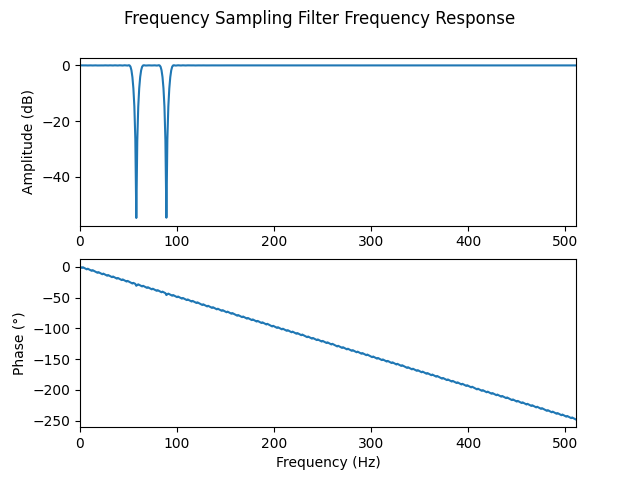
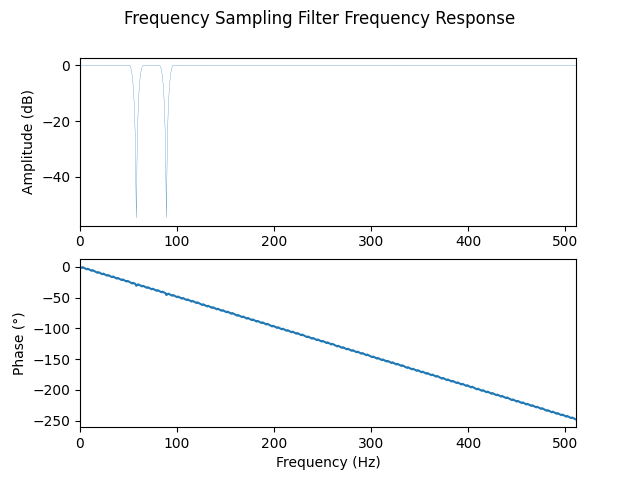
...

Changed region(s): [[0.125, 0.125, 0.9062, 0.4375]]

diff --git a/main.py b/main.py
@@ -126,7 +126,8 @@ def calculateGainFactor(numerator, denominator, passband_freq, sampling_freq):
     # Calculate gain factor. At unity gain: gain_factor * numerator_sum/denominator_sum = 1
     gain_factor = denominator_sum/numerator_sum
 
-    return gain_factor
+    #return gain_factor
+    return 1
 
 
 
@@ -282,14 +283,14 @@ def createClean(filename, directory=False):
     for reading and writing if it is a file.
     Deletes a previously created file if it exists, so that a new file can be written cleanly"""
 
-    # Remove file
+    # Remove old file
     if os.path.exists(filename): # Check if an output path already exists
         if directory == True: # If a folder is to be created
             shutil.rmtree(filename) # Remove previous output folder, so the figures can be cleanly saved
         else: # If a file is to be created
             os.remove(filename) # Remove the previous file, so the file can be cleanly saved
 
-    # Create
+    # Create file
     if directory == True: # If a folder is to be created
         output = os.path.join(filename)  # The output folder for the figures to be saved
         os.mkdir(output) # Create output folder
@@ -360,7 +361,8 @@ def main():
     notch_time = getTimeData(sample_rate, len(notched_samples)) # Create a time array based on notch filtered data
     notch_frequency, notch_freq_data = calcFreqSpectrum(notched_samples, sample_rate) # Calculate frequency of the IIR filtered ECG data
     notched_numerator, notched_denominator = combineFilters(notch_num_1, notch_denom_1, notch_num_2, notch_denom_2)  # Combine the two IIR notch filters
-
+    print(notch_num_2)
+    print(notch_denom_2)
     # Create and apply FIR filters to data
     window_filter_1, window_filter_2, window_filter_overall = createWindowFilter(cutoff, sample_rate, notch_width, num_FIR_taps) # Calculate window filter coefficents
     half_windowed_samples, full_windowed_samples, overall_windowed_samples = applyFIRFilters(window_filter_1, window_filter_2, window_filter_overall, samples) # Apply window filter to data

diff --git a/signalPlots.py b/signalPlots.py
@@ -320,7 +320,7 @@ def plotFrequencySampledFilterResponse(filter_array, f_samp):
      plt.xlabel("Frequency (Hz)")
 
      # Plot magnitude response
-     freq_ax1.plot(freq, 20 * np.log10(abs(response)))  # Plot magnitude in dB vs Hz
+     freq_ax1.plot(freq, 20 * np.log10(abs(response)), linewidth=0.2)  # Plot magnitude in dB vs Hz
      freq_ax1.set_ylabel("Amplitude (dB)")
      freq_ax1.set_xlim(freq[0], freq[-1])  # Limit the x axis from 0 to Nyquist frequency
 
